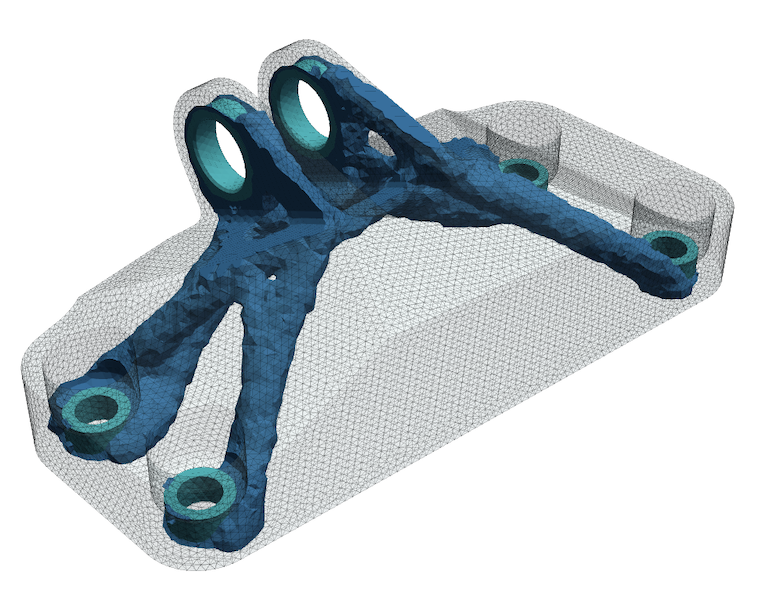
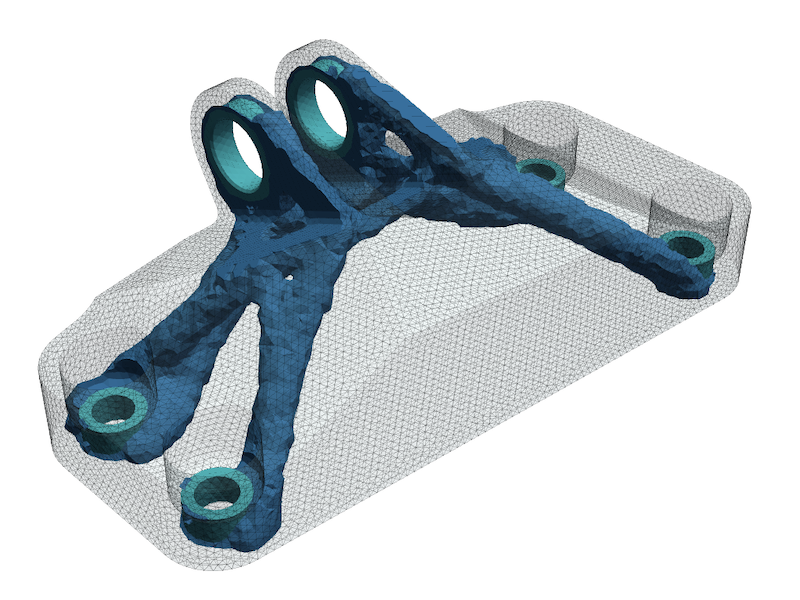
Update README and deduplicate thumbnails.

Changed region(s): [[0.03, 0.06, 0.4804, 0.96], [0.5104, 0.15, 0.9608, 0.78], [0.4504, 0.24, 0.4804, 0.27]]

diff --git a/README.md b/README.md
@@ -100,6 +100,11 @@ u, f, _, _, _ = cantilever.solve(differentiable_parameters=cantilever.thickness)
 compliance = torch.inner(f.ravel(), u.ravel())
 torch.autograd.grad(compliance, cantilever.thickness)[0]
 ```
+This returns the sensitivity of the compliance with respect to the thickness of each element:
+```
+tensor([-0.0208, -0.0053])
+```
+Both entries are negative, so adding material anywhere stiffens the structure, but the element at the clamped end is about four times as effective as the one at the tip.
 
 ## Basic examples
 The subdirectory `examples/basic` contains a couple of Jupyter notebooks demonstrating the use of *torch-fem* for trusses, planar problems, shells, and solids. You may click on the examples to check out the notebooks online.
@@ -107,16 +112,24 @@ The subdirectory `examples/basic` contains a couple of Jupyter notebooks demonst
 <table>
     <tbody>
         <tr>
-            <td><a href="https://meyer-nils.github.io/torch-fem/examples/basic/planar/plasticity.html"><img src="https://meyer-nils.github.io/torch-fem/images/plate_hole_plasticity.png" alt="Planar plate with a hole plasticity example"></a></td>
+            <td colspan="2"><a href="https://meyer-nils.github.io/torch-fem/examples/basic/planar/plasticity.html"><img src="https://meyer-nils.github.io/torch-fem/images/plate_hole_plasticity.png" alt="Planar plate with a hole plasticity example"></a></td>
         </tr>
         <tr>
-            <td align="center"><b>Plasticity in a plate with hole:</b> Isotropic linear hardening model for plane-stress or plane-strain.</td>
+            <td colspan="2" align="center"><b>Plasticity in a plate with hole:</b> Isotropic linear hardening model for plane-stress or plane-strain.</td>
         </tr>
         <tr>
-            <td><a href="https://meyer-nils.github.io/torch-fem/examples/basic/solid/finite_strain.html"><img src="https://meyer-nils.github.io/torch-fem/images/cantilever_finite_strain.png" alt="Finite-strain cantilever example"></a></td>
+            <td colspan="2"><a href="https://meyer-nils.github.io/torch-fem/examples/basic/solid/finite_strain.html"><img src="https://meyer-nils.github.io/torch-fem/images/cantilever_finite_strain.png" alt="Finite-strain cantilever example"></a></td>
         </tr>
         <tr>
-            <td align="center"><b>Finite strain cantilever:</b> Hyperelastic model in Total Lagrangian Formulation.</td>
+            <td colspan="2" align="center"><b>Finite strain cantilever:</b> Hyperelastic model in Total Lagrangian Formulation.</td>
+        </tr>
+        <tr>
+            <td style="width: 50%;"><a href="https://meyer-nils.github.io/torch-fem/examples/basic/shell/modal.html"><img src="https://meyer-nils.github.io/torch-fem/images/examples/basic/shell/modal.png" alt="Shell modal analysis example"></a></td>
+            <td style="width: 50%;"><a href="https://meyer-nils.github.io/torch-fem/examples/basic/solid/gyroid.html"><img src="https://meyer-nils.github.io/torch-fem/images/examples/basic/solid/gyroid.png" alt="Implicit gyroid structure example"></a></td>
+        </tr>
+        <tr>
+            <td align="center"><b>Modal analysis of a clamped shell:</b> Natural frequencies and mode shapes of a fully clamped flat shell.</td>
+            <td align="center"><b>Implicit gyroid structure:</b> A voxel mesh is carved into a triply periodic minimal surface with a signed distance function.</td>
         </tr>
     </tbody>
 </table>
@@ -127,29 +140,36 @@ The subdirectory `examples/optimization` demonstrates the use of *torch-fem* for
 <table>
     <tbody>
         <tr>
-            <td style="width: 50%;"><a href="https://meyer-nils.github.io/torch-fem/examples/optimization/truss/shape.html"><img src="https://meyer-nils.github.io/torch-fem/images/bridge.png" alt="Truss shape optimization example"></a></td>
-            <td style="width: 50%;"><a href="https://meyer-nils.github.io/torch-fem/examples/optimization/planar/shape.html"><img src="https://meyer-nils.github.io/torch-fem/images/fillet_shape_optimization.png" alt="Planar fillet shape optimization example"></a></td>
+            <td style="width: 50%;"><a href="https://meyer-nils.github.io/torch-fem/examples/optimization/truss/shape.html"><img src="https://meyer-nils.github.io/torch-fem/images/examples/optimization/truss/shape.png" alt="Truss shape optimization example"></a></td>
+            <td style="width: 50%;"><a href="https://meyer-nils.github.io/torch-fem/examples/optimization/planar/shape.html"><img src="https://meyer-nils.github.io/torch-fem/images/examples/optimization/planar/shape.png" alt="Planar fillet shape optimization example"></a></td>
         </tr>
         <tr>
             <td align="center"><b>Shape optimization of a truss:</b> The top nodes are moved and MMA + autograd is used to minimize the compliance.</td>
             <td align="center"><b>Shape optimization of a fillet:</b> The shape is morphed with shape basis vectors and MMA + autograd is used to minimize the maximum stress.</td>
         </tr>
         <tr>
-            <td style="width: 50%;"><a href="https://meyer-nils.github.io/torch-fem/examples/optimization/planar/topology.html"><img src="https://meyer-nils.github.io/torch-fem/images/topopt_mbb.png" alt="MBB beam topology optimization example"></a></td>
-            <td style="width: 50%;"><img src="https://meyer-nils.github.io/torch-fem/images/topopt_3d.png" alt="3D jet engine bracket topology optimization result"></td>
+            <td style="width: 50%;"><a href="https://meyer-nils.github.io/torch-fem/examples/optimization/solid/bracket.html"><img src="https://meyer-nils.github.io/torch-fem/images/examples/optimization/solid/bracket.png" alt="3D jet engine bracket topology optimization result"></a></td>
+            <td style="width: 50%;"><a href="https://meyer-nils.github.io/torch-fem/examples/optimization/planar/topology+orientation.html"><img src="https://meyer-nils.github.io/torch-fem/images/examples/optimization/planar/topology+orientation.png" alt="Combined topology and orientation optimization example"></a></td>
         </tr>
         <tr>
-            <td align="center"><b>Topology optimization of a MBB beam:</b> You can switch between analytical and autograd sensitivities.</td>
-            <td align="center"><b>Topology optimization of a jet engine bracket:</b> The 3D model is exported to Paraview for visualization.</td>
+            <td align="center"><b>Topology optimization of a jet engine bracket:</b> The optimized part is cut out of the design space at an iso-value of the density.</td>
+            <td align="center"><b>Combined topology and orientation optimization:</b> Compliance is minimized by optimizing fiber orientation and density of an anisotropic material.</td>
         </tr>
         <tr>
-            <td style="width: 50%;"><a href="https://meyer-nils.github.io/torch-fem/examples/optimization/planar/topology+orientation.html"><img src="https://meyer-nils.github.io/torch-fem/images/topo+ori.png" alt="Combined topology and orientation optimization example"></a></td>
-            <td style="width: 50%;"><a href="https://meyer-nils.github.io/torch-fem/examples/optimization/planar/orientation.html"><img src="https://meyer-nils.github.io/torch-fem/images/plate_hole_shape_optimization.png" alt="Fiber orientation optimization example"></a>
-            </td>
+            <td style="width: 50%;"><a href="https://meyer-nils.github.io/torch-fem/examples/optimization/planar/orientation.html"><img src="https://meyer-nils.github.io/torch-fem/images/examples/optimization/planar/orientation.png" alt="Fiber orientation optimization example"></a></td>
+            <td style="width: 50%;"><a href="https://meyer-nils.github.io/torch-fem/examples/optimization/solid/topology_thermal.html"><img src="https://meyer-nils.github.io/torch-fem/images/examples/optimization/solid/topology_thermal.png" alt="3D heat sink topology optimization example"></a></td>
         </tr>
         <tr>
-            <td align="center"><b>Combined topology and orientation optimization:</b> Compliance is minimized by optimizing fiber orientation and density of an anisotropic material using automatic differentiation.</td>
-            <td align="center"><b>Fiber orientation optimization of a plate with a hole</b> Compliance is minimized by optimizing the fiber orientation of an anisotropic material using automatic differentiation w.r.t. element-wise fiber angles.</td>
+            <td align="center"><b>Fiber orientation optimization of a plate with a hole</b> Compliance is minimized by optimizing the fiber orientation of an anisotropic material.</td>
+            <td align="center"><b>Topology optimization of a 3D heat sink:</b> Conductive material is distributed in a cube with a homogeneous heat source to minimize thermal compliance.</td>
+        </tr>
+        <tr>
+            <td style="width: 50%;"><a href="https://meyer-nils.github.io/torch-fem/examples/optimization/planar/property_fields.html"><img src="https://meyer-nils.github.io/torch-fem/images/examples/optimization/planar/property_fields.png" alt="Property field recovery example"></a></td>
+            <td style="width: 50%;"><a href="https://meyer-nils.github.io/torch-fem/examples/optimization/shell/pressure_vessel.html"><img src="https://meyer-nils.github.io/torch-fem/images/examples/optimization/shell/pressure_vessel.png" alt="Pressure vessel free size optimization example"></a></td>
+        </tr>
+        <tr>
+            <td align="center"><b>Recovery of a property field:</b> A direct optimization and a neural field recover a graded elastic modulus from noisy observations of the displacement.</td>
+            <td align="center"><b>Free size optimization of a pressure vessel:</b> Each element's shell thickness is a design variable and a fixed amount of material is redistributed to minimize compliance.</td>
         </tr>
     </tbody>
 </table>
@@ -175,15 +195,15 @@ Contributions are welcome! Please check out the [contributing guide](https://git
 ## Alternatives
 *torch-fem* focuses on solid mechanics and thermal problems. It provides sensitivities through PyTorch autograd, which makes it easy to drop into optimization loops and ML pipelines. It is the natural choice if you are working in the PyTorch ecosystem. Depending on your needs, one of these Python FEM tools may serve you better:
 
-| Library | Focus | Differentiable | Consider it over torch-fem when… |
-|---|---|:---:|---|
-| [FEniCSx (DOLFINx)](https://github.com/FEniCS/dolfinx) ![stars](https://img.shields.io/github/stars/FEniCS/dolfinx?style=flat-square) | General PDEs, UFL weak forms, MPI | via [dolfin-adjoint](https://github.com/dolfin-adjoint/pyadjoint) | you need arbitrary weak forms or massively parallel distributed runs |
-| [SfePy](https://github.com/sfepy/sfepy) ![stars](https://img.shields.io/github/stars/sfepy/sfepy?style=flat-square) | General multiphysics, pure Python | — | you need a broad range of PDE applications on CPU |
-| [JAX-FEM](https://github.com/deepmodeling/jax-fem) ![stars](https://img.shields.io/github/stars/deepmodeling/jax-fem?style=flat-square) | Differentiable FEM, JAX / GPU | ✅ | your stack is built on JAX rather than PyTorch |
-| [Firedrake](https://github.com/firedrakeproject/firedrake) ![stars](https://img.shields.io/github/stars/firedrakeproject/firedrake?style=flat-square) | General PDEs, UFL weak forms | via [pyadjoint](https://github.com/dolfin-adjoint/pyadjoint) | you want a UFL form language with automated adjoints for multiphysics |
-| [scikit-fem](https://github.com/kinnala/scikit-fem) ![stars](https://img.shields.io/github/stars/kinnala/scikit-fem?style=flat-square) | Lightweight assembly, NumPy/SciPy | — | you want minimal dependencies and full control over custom forms |
-| [FElupe](https://github.com/adtzlr/felupe) ![stars](https://img.shields.io/github/stars/adtzlr/felupe?style=flat-square) | Finite-strain solid mechanics | partially via [tensortrax](https://github.com/adtzlr/tensortrax) | you work with hyperelastic / finite-strain solids |
-| [Nutils](https://github.com/evalf/nutils) ![stars](https://img.shields.io/github/stars/evalf/nutils?style=flat-square) | High-order / immersed methods | — | you research advanced or immersed discretizations including IGA |
-| [PyTorch-FEA](https://github.com/liangbright/pytorch_fea) ![stars](https://img.shields.io/github/stars/liangbright/pytorch_fea?style=flat-square) | Biomechanics, PyTorch | ✅ | you work on soft-tissue / inverse biomechanics |
+| Library | Stars | Focus | Differentiable | Consider it over torch-fem when… |
+|---|:---:|---|:---:|---|
+| [FEniCSx (DOLFINx)](https://github.com/FEniCS/dolfinx) | ![stars](https://img.shields.io/github/stars/FEniCS/dolfinx?style=flat-square) | General PDEs, UFL weak forms, MPI | via [dolfin-adjoint](https://github.com/dolfin-adjoint/pyadjoint) | you need arbitrary weak forms or massively parallel distributed runs |
+| [SfePy](https://github.com/sfepy/sfepy) | ![stars](https://img.shields.io/github/stars/sfepy/sfepy?style=flat-square) | General multiphysics, pure Python | — | you need a broad range of PDE applications on CPU |
+| [JAX-FEM](https://github.com/deepmodeling/jax-fem) | ![stars](https://img.shields.io/github/stars/deepmodeling/jax-fem?style=flat-square) | Differentiable FEM, JAX / GPU | ✅ | your stack is built on JAX rather than PyTorch |
+| [Firedrake](https://github.com/firedrakeproject/firedrake) | ![stars](https://img.shields.io/github/stars/firedrakeproject/firedrake?style=flat-square) | General PDEs, UFL weak forms | via [pyadjoint](https://github.com/dolfin-adjoint/pyadjoint) | you want a UFL form language with automated adjoints for multiphysics |
+| [scikit-fem](https://github.com/kinnala/scikit-fem) | ![stars](https://img.shields.io/github/stars/kinnala/scikit-fem?style=flat-square) | Lightweight assembly, NumPy/SciPy | — | you want minimal dependencies and full control over custom forms |
+| [FElupe](https://github.com/adtzlr/felupe) | ![stars](https://img.shields.io/github/stars/adtzlr/felupe?style=flat-square) | Finite-strain solid mechanics | partially via [tensortrax](https://github.com/adtzlr/tensortrax) | you work with hyperelastic / finite-strain solids |
+| [Nutils](https://github.com/evalf/nutils) | ![stars](https://img.shields.io/github/stars/evalf/nutils?style=flat-square) | High-order / immersed methods | — | you research advanced or immersed discretizations including IGA |
+| [PyTorch-FEA](https://github.com/liangbright/pytorch_fea) | ![stars](https://img.shields.io/github/stars/liangbright/pytorch_fea?style=flat-square) | Biomechanics, PyTorch | ✅ | you work on soft-tissue / inverse biomechanics |
 
 Not sure which to pick? The [mosaic](https://github.com/pasteurlabs/mosaic) differentiable-physics benchmark suite compares several of these solvers on gradient accuracy and forward/adjoint performance under a common interface.
